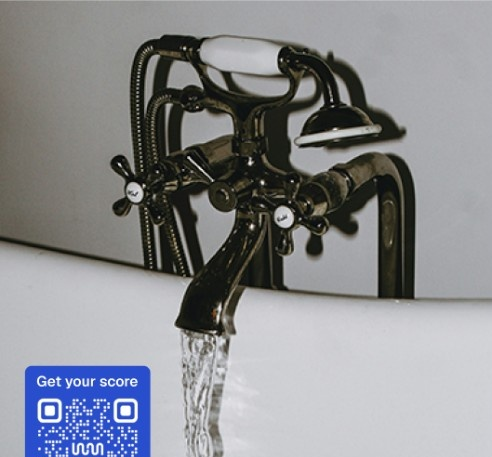
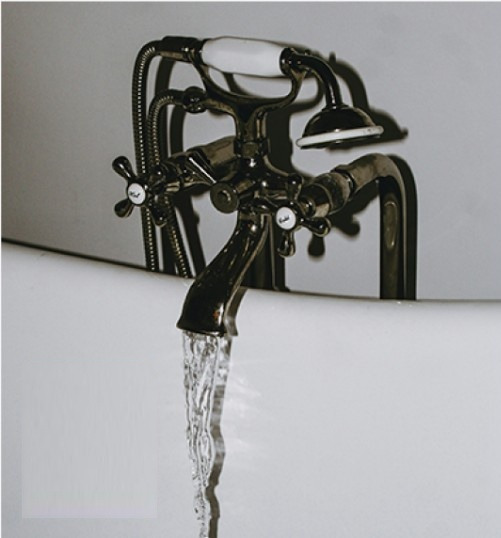
Blur score-card right panel and use faucet default photo.

diff --git a/services/score-share-card.js b/services/score-share-card.js
@@ -1,8 +1,8 @@
 /**
  * Water Score share cards for LINE / social (3 formats).
  * Matches the approved design plate:
- *  - left: real site photo (default faucet plate when missing)
- *  - right: static headline + dynamic score card
+ *  - left/top: site photo (default faucet plate when missing)
+ *  - right/bottom: blurred photo wash + headline + dynamic score card
  *  - static QR CTA + Water Motion wordmark
  */
 
@@ -16,7 +16,6 @@ const FORMATS = Object.freeze({
 });
 
 const BRAND_BLUE = '#284DCD';
-const SURFACE = '#B4B5B9';
 const CARD_BG = '#FFFFFF';
 const INK = '#0A0A0A';
 const MUTED = '#57534E';
@@ -43,6 +42,12 @@ function fileToDataUri(filePath, mime) {
   if (!filePath || !fs.existsSync(filePath)) return '';
   const buf = fs.readFileSync(filePath);
   return `data:${mime};base64,${buf.toString('base64')}`;
+}
+
+function dataUriToBuffer(dataUri) {
+  const match = String(dataUri || '').match(/^data:([^;]+);base64,(.+)$/);
+  if (!match) return null;
+  return Buffer.from(match[2], 'base64');
 }
 
 function customerVerdict(score) {
@@ -150,18 +155,14 @@ function logoWordmark(x, y, fill = LOGO_FILL) {
     </g>`;
 }
 
+/** Landscape UI overlay only — photo/blur are composited with sharp. */
 function buildLandscapeSvg(opts) {
   const { width, height } = FORMATS.landscape;
   const score = Number(opts.score);
   const verdict = customerVerdict(score);
   const note = opts.note || scoreSummaryNote(score, opts.findingsCount);
-  const photoHref = opts.photoDataUri || '';
   const qrHref = opts.qrDataUri || '';
   const photoW = 560;
-
-  const photoLayer = photoHref
-    ? `<image href="${escapeXml(photoHref)}" x="0" y="0" width="${photoW}" height="${height}" preserveAspectRatio="xMidYMid slice"/>`
-    : `<rect x="0" y="0" width="${photoW}" height="${height}" fill="#1a1f2b"/>`;
 
   const qrLayer = qrHref
     ? `<image href="${escapeXml(qrHref)}" x="32" y="${height - 178}" width="146" height="146" preserveAspectRatio="xMidYMid meet"/>`
@@ -178,8 +179,6 @@ function buildLandscapeSvg(opts) {
       <feDropShadow dx="0" dy="18" stdDeviation="22" flood-color="#0c0a09" flood-opacity="0.22"/>
     </filter>
   </defs>
-  <rect width="${width}" height="${height}" fill="${SURFACE}"/>
-  ${photoLayer}
   <rect x="0" y="0" width="${photoW}" height="${height}" fill="url(#photoScrim)"/>
   <text x="610" y="86" fill="${HEADLINE}" font-family="Arial, Helvetica, sans-serif" font-size="36" font-weight="800" letter-spacing="0.04em">SEE YOUR WATER</text>
   <text x="610" y="128" fill="${HEADLINE}" font-family="Arial, Helvetica, sans-serif" font-size="36" font-weight="800" letter-spacing="0.04em">DIFFERENTLY.</text>
@@ -189,17 +188,13 @@ function buildLandscapeSvg(opts) {
 </svg>`;
 }
 
+/** Stacked UI overlay — photo/blur are composited with sharp. */
 function buildStackedSvg(opts, meta, photoH, cardY, cardH, qrY) {
   const { width, height } = meta;
   const score = Number(opts.score);
   const verdict = customerVerdict(score);
   const note = opts.note || scoreSummaryNote(score, opts.findingsCount);
-  const photoHref = opts.photoDataUri || '';
   const qrHref = opts.qrDataUri || '';
-
-  const photoLayer = photoHref
-    ? `<image href="${escapeXml(photoHref)}" x="0" y="0" width="${width}" height="${photoH}" preserveAspectRatio="xMidYMid slice"/>`
-    : `<rect x="0" y="0" width="${width}" height="${photoH}" fill="#1a1f2b"/>`;
 
   const qrLayer = qrHref
     ? `<image href="${escapeXml(qrHref)}" x="48" y="${qrY}" width="150" height="150"/>`
@@ -216,8 +211,6 @@ function buildStackedSvg(opts, meta, photoH, cardY, cardH, qrY) {
       <feDropShadow dx="0" dy="16" stdDeviation="20" flood-color="#0c0a09" flood-opacity="0.2"/>
     </filter>
   </defs>
-  <rect width="${width}" height="${height}" fill="${SURFACE}"/>
-  ${photoLayer}
   <rect x="0" y="0" width="${width}" height="${photoH}" fill="url(#photoScrim)"/>
   <text x="48" y="72" fill="#FFFFFF" font-family="Arial, Helvetica, sans-serif" font-size="40" font-weight="800">SEE YOUR WATER</text>
   <text x="48" y="120" fill="#FFFFFF" font-family="Arial, Helvetica, sans-serif" font-size="40" font-weight="800">DIFFERENTLY.</text>
@@ -270,14 +263,87 @@ async function resolvePhotoDataUri(options = {}) {
   return fileToDataUri(DEFAULT_PHOTO, 'image/jpeg');
 }
 
+async function buildBlurredBackdrop(sharp, photoBuf, width, height) {
+  return sharp(photoBuf)
+    .resize(width, height, { fit: 'cover', position: 'centre' })
+    .blur(64)
+    .modulate({ brightness: 1.28, saturation: 0.35 })
+    .linear(0.85, 48)
+    .png()
+    .toBuffer();
+}
+
+async function buildGreyWash(sharp, width, height, alpha = 0.28) {
+  return sharp({
+    create: {
+      width,
+      height,
+      channels: 4,
+      background: { r: 210, g: 212, b: 216, alpha }
+    }
+  })
+    .png()
+    .toBuffer();
+}
+
+async function compositeLandscape(sharp, photoBuf, svgBuffer) {
+  const { width, height } = FORMATS.landscape;
+  const photoW = 560;
+  const blurred = await buildBlurredBackdrop(sharp, photoBuf, width, height);
+  const wash = await buildGreyWash(sharp, width - photoW, height, 0.34);
+  const leftPhoto = await sharp(photoBuf)
+    .resize(photoW, height, { fit: 'cover', position: 'centre' })
+    .png()
+    .toBuffer();
+
+  return sharp(blurred)
+    .composite([
+      { input: wash, left: photoW, top: 0 },
+      { input: leftPhoto, left: 0, top: 0 },
+      { input: svgBuffer, left: 0, top: 0 }
+    ])
+    .png({ compressionLevel: 8 })
+    .toBuffer();
+}
+
+async function compositeStacked(sharp, photoBuf, svgBuffer, meta, photoH) {
+  const { width, height } = meta;
+  const blurred = await buildBlurredBackdrop(sharp, photoBuf, width, height);
+  const wash = await buildGreyWash(sharp, width, height - photoH, 0.52);
+  const topPhoto = await sharp(photoBuf)
+    .resize(width, photoH, { fit: 'cover', position: 'centre' })
+    .png()
+    .toBuffer();
+
+  return sharp(blurred)
+    .composite([
+      { input: wash, left: 0, top: photoH },
+      { input: topPhoto, left: 0, top: 0 },
+      { input: svgBuffer, left: 0, top: 0 }
+    ])
+    .png({ compressionLevel: 8 })
+    .toBuffer();
+}
+
 async function renderShareCardPng(format, options = {}) {
   const sharp = require('sharp');
   const photoDataUri = await resolvePhotoDataUri(options);
   const qrDataUri = options.qrDataUri || fileToDataUri(QR_ASSET, 'image/png');
   const built = buildShareCardSvg(format, { ...options, photoDataUri, qrDataUri });
-  const png = await sharp(Buffer.from(built.svg))
-    .png({ compressionLevel: 8 })
-    .toBuffer();
+  const svgBuffer = Buffer.from(built.svg);
+  const photoBuf = dataUriToBuffer(photoDataUri);
+
+  let png;
+  if (!photoBuf) {
+    png = await sharp(svgBuffer).png({ compressionLevel: 8 }).toBuffer();
+  } else if (built.key === 'landscape') {
+    png = await compositeLandscape(sharp, photoBuf, svgBuffer);
+  } else if (built.key === 'square') {
+    png = await compositeStacked(sharp, photoBuf, svgBuffer, built, 480);
+  } else {
+    png = await compositeStacked(sharp, photoBuf, svgBuffer, built, 980);
+  }
+
   return { ...built, png };
 }
 
